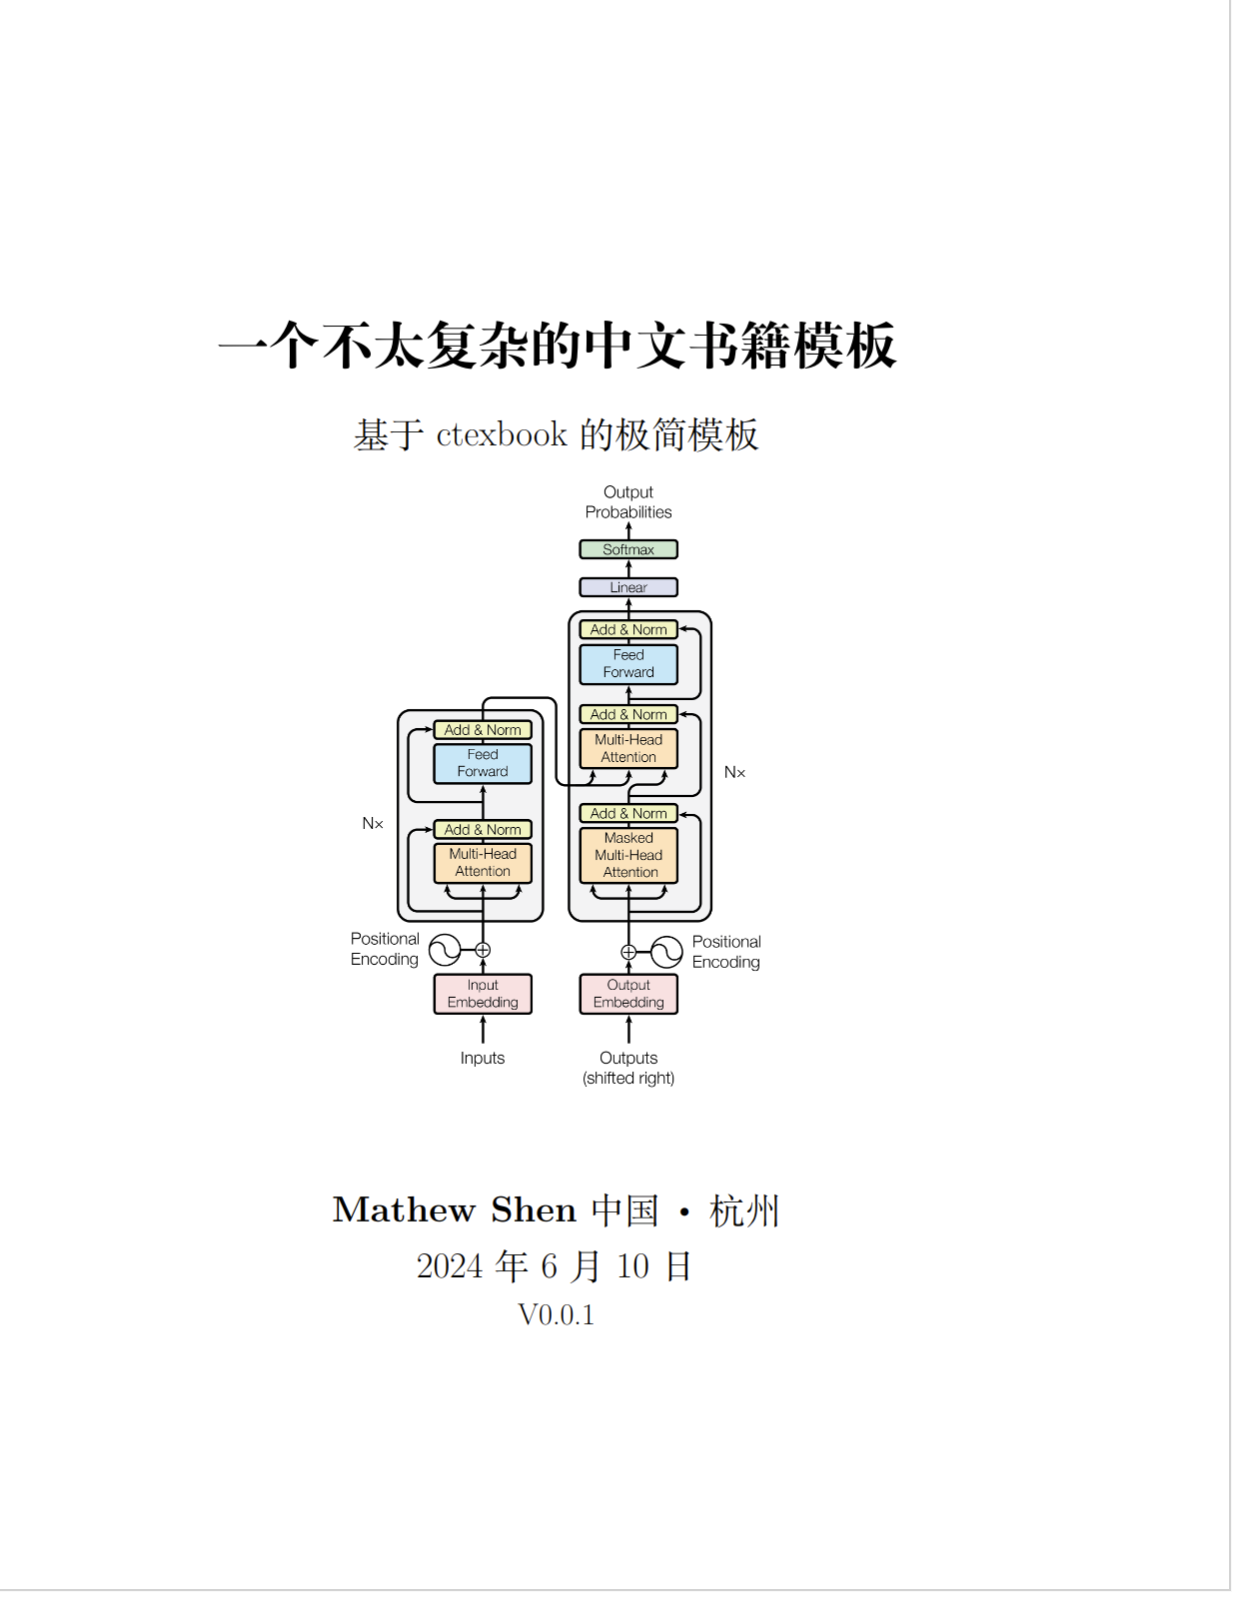
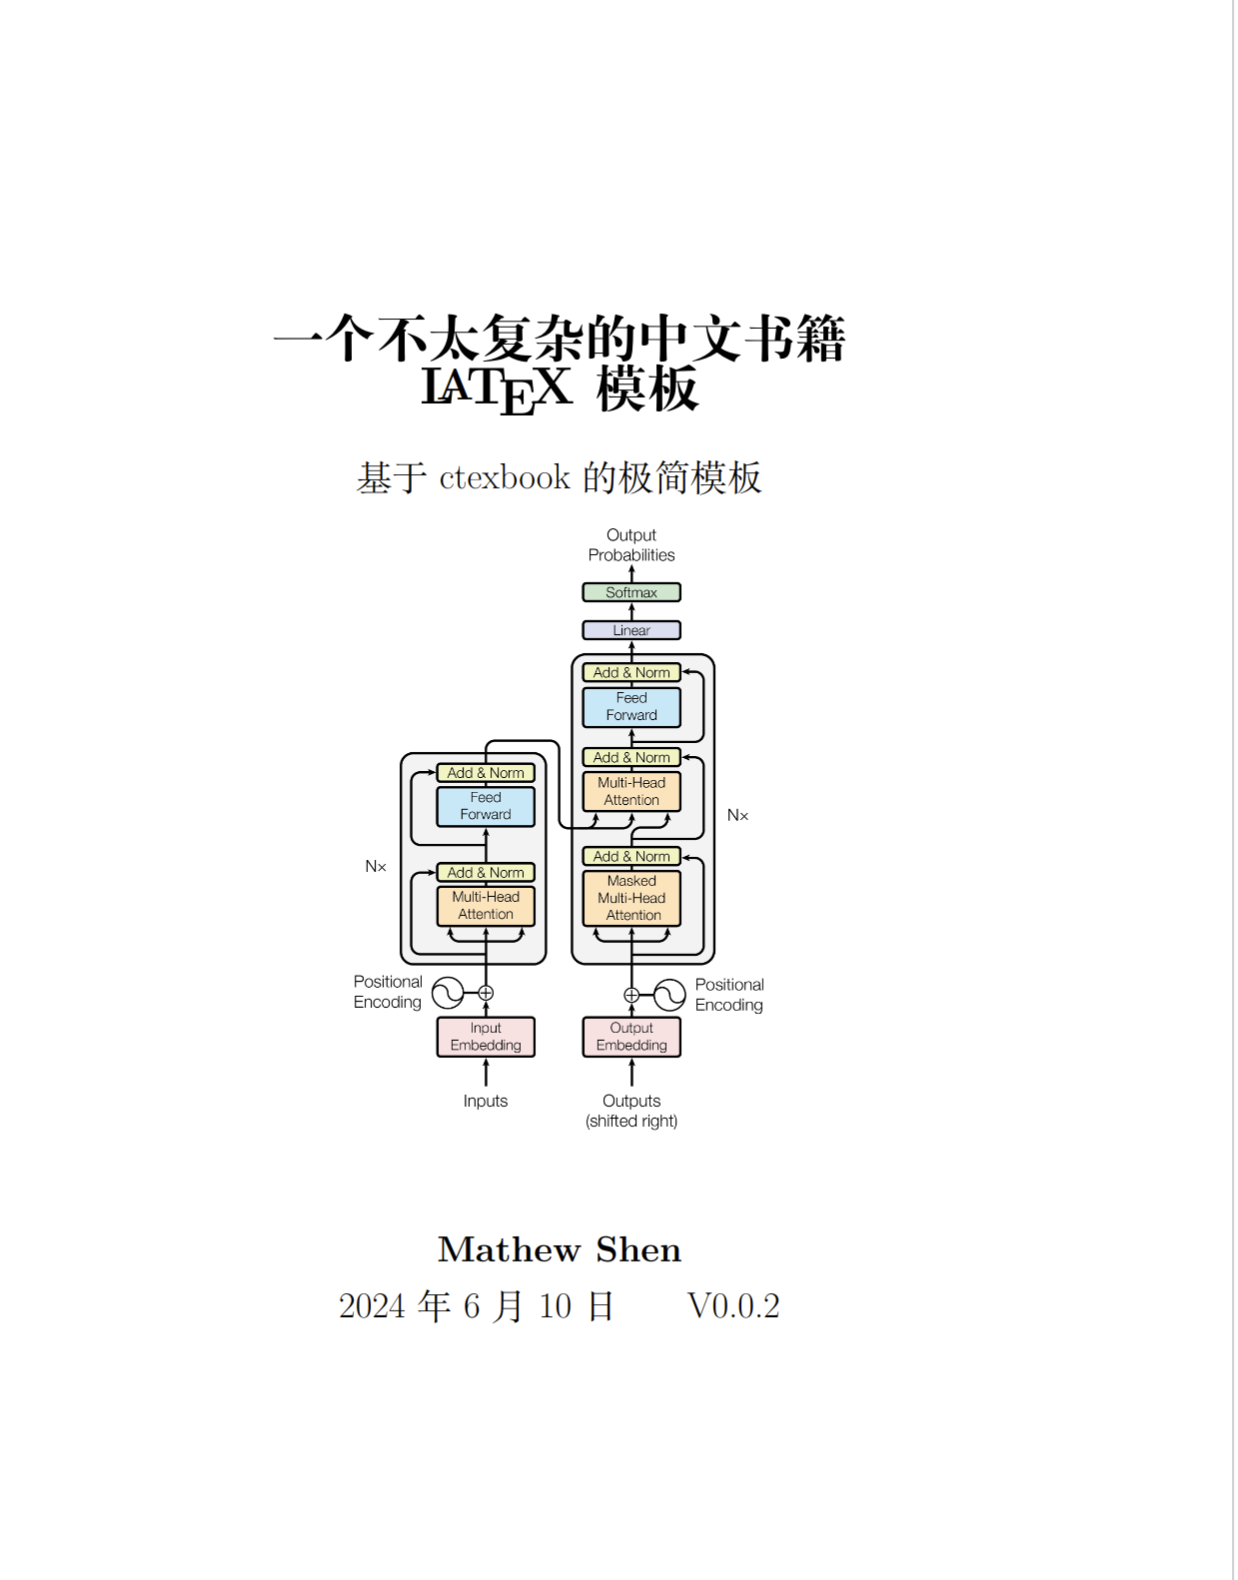
Release 0.0.2 (#8)
* change(cover): version number to 0.0.2

* use new cover

diff --git a/book.tex b/book.tex
@@ -74,7 +74,7 @@
 
         \vspace{0.5cm}
         \textbf{Mathew Shen} \\
-        \today \hspace{1cm} V0.0.1
+        \today \hspace{1cm} V0.0.2
 
     \end{center}
  \end{titlepage}
